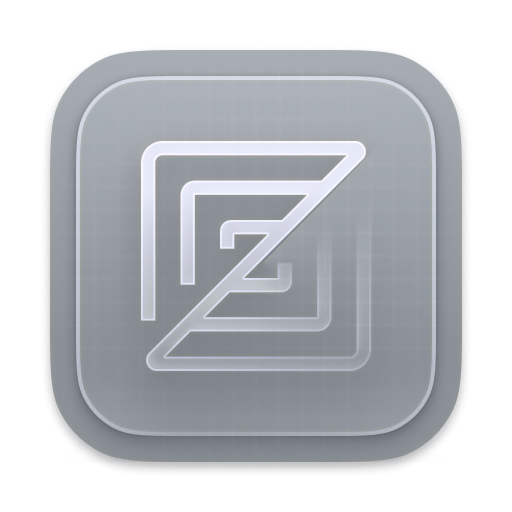
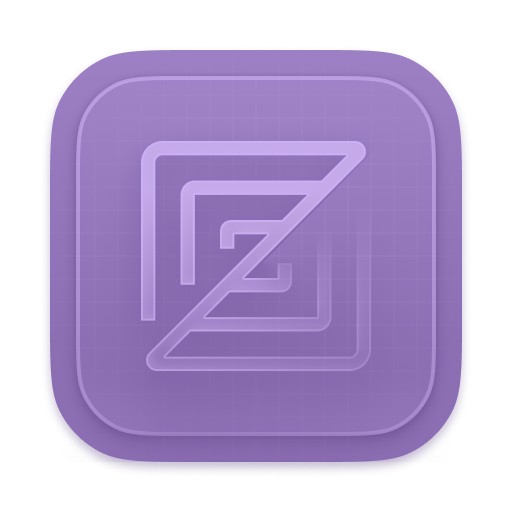
Give the Dev release channel Zed Echo identity

diff --git a/crates/release_channel/src/lib.rs b/crates/release_channel/src/lib.rs
@@ -44,7 +44,7 @@ pub static RELEASE_CHANNEL: LazyLock<ReleaseChannel> =
 #[cfg(target_os = "windows")]
 pub fn app_identifier() -> &'static str {
     match *RELEASE_CHANNEL {
-        ReleaseChannel::Dev => "Zed-Editor-Dev",
+        ReleaseChannel::Dev => "Zed-Echo",
         ReleaseChannel::Nightly => "Zed-Editor-Nightly",
         ReleaseChannel::Preview => "Zed-Editor-Preview",
         ReleaseChannel::Stable => "Zed-Editor-Stable",
@@ -205,7 +205,7 @@ impl ReleaseChannel {
     /// Returns the display name for this [`ReleaseChannel`].
     pub fn display_name(&self) -> &'static str {
         match self {
-            ReleaseChannel::Dev => "Zed Dev",
+            ReleaseChannel::Dev => "Zed Echo",
             ReleaseChannel::Nightly => "Zed Nightly",
             ReleaseChannel::Preview => "Zed Preview",
             ReleaseChannel::Stable => "Zed",
@@ -227,7 +227,7 @@ impl ReleaseChannel {
     /// This also has to match the bundle identifier for Zed on macOS.
     pub fn app_id(&self) -> &'static str {
         match self {
-            ReleaseChannel::Dev => "dev.zed.Zed-Dev",
+            ReleaseChannel::Dev => "dev.jrb.ZedEcho",
             ReleaseChannel::Nightly => "dev.zed.Zed-Nightly",
             ReleaseChannel::Preview => "dev.zed.Zed-Preview",
             ReleaseChannel::Stable => "dev.zed.Zed",
@@ -302,5 +302,22 @@ mod tests {
             ReleaseChannel::Stable.docs_url("settings"),
             "https://zed.dev/docs/settings"
         );
+    }
+
+    #[test]
+    fn dev_channel_is_zed_echo() {
+        assert_eq!(ReleaseChannel::Dev.display_name(), "Zed Echo");
+        assert_eq!(ReleaseChannel::Dev.app_id(), "dev.jrb.ZedEcho");
+    }
+
+    #[test]
+    fn dev_channel_never_self_updates() {
+        assert!(!ReleaseChannel::Dev.poll_for_updates());
+    }
+
+    #[test]
+    fn other_channels_are_untouched() {
+        assert_eq!(ReleaseChannel::Stable.display_name(), "Zed");
+        assert_eq!(ReleaseChannel::Stable.app_id(), "dev.zed.Zed");
     }
 }
